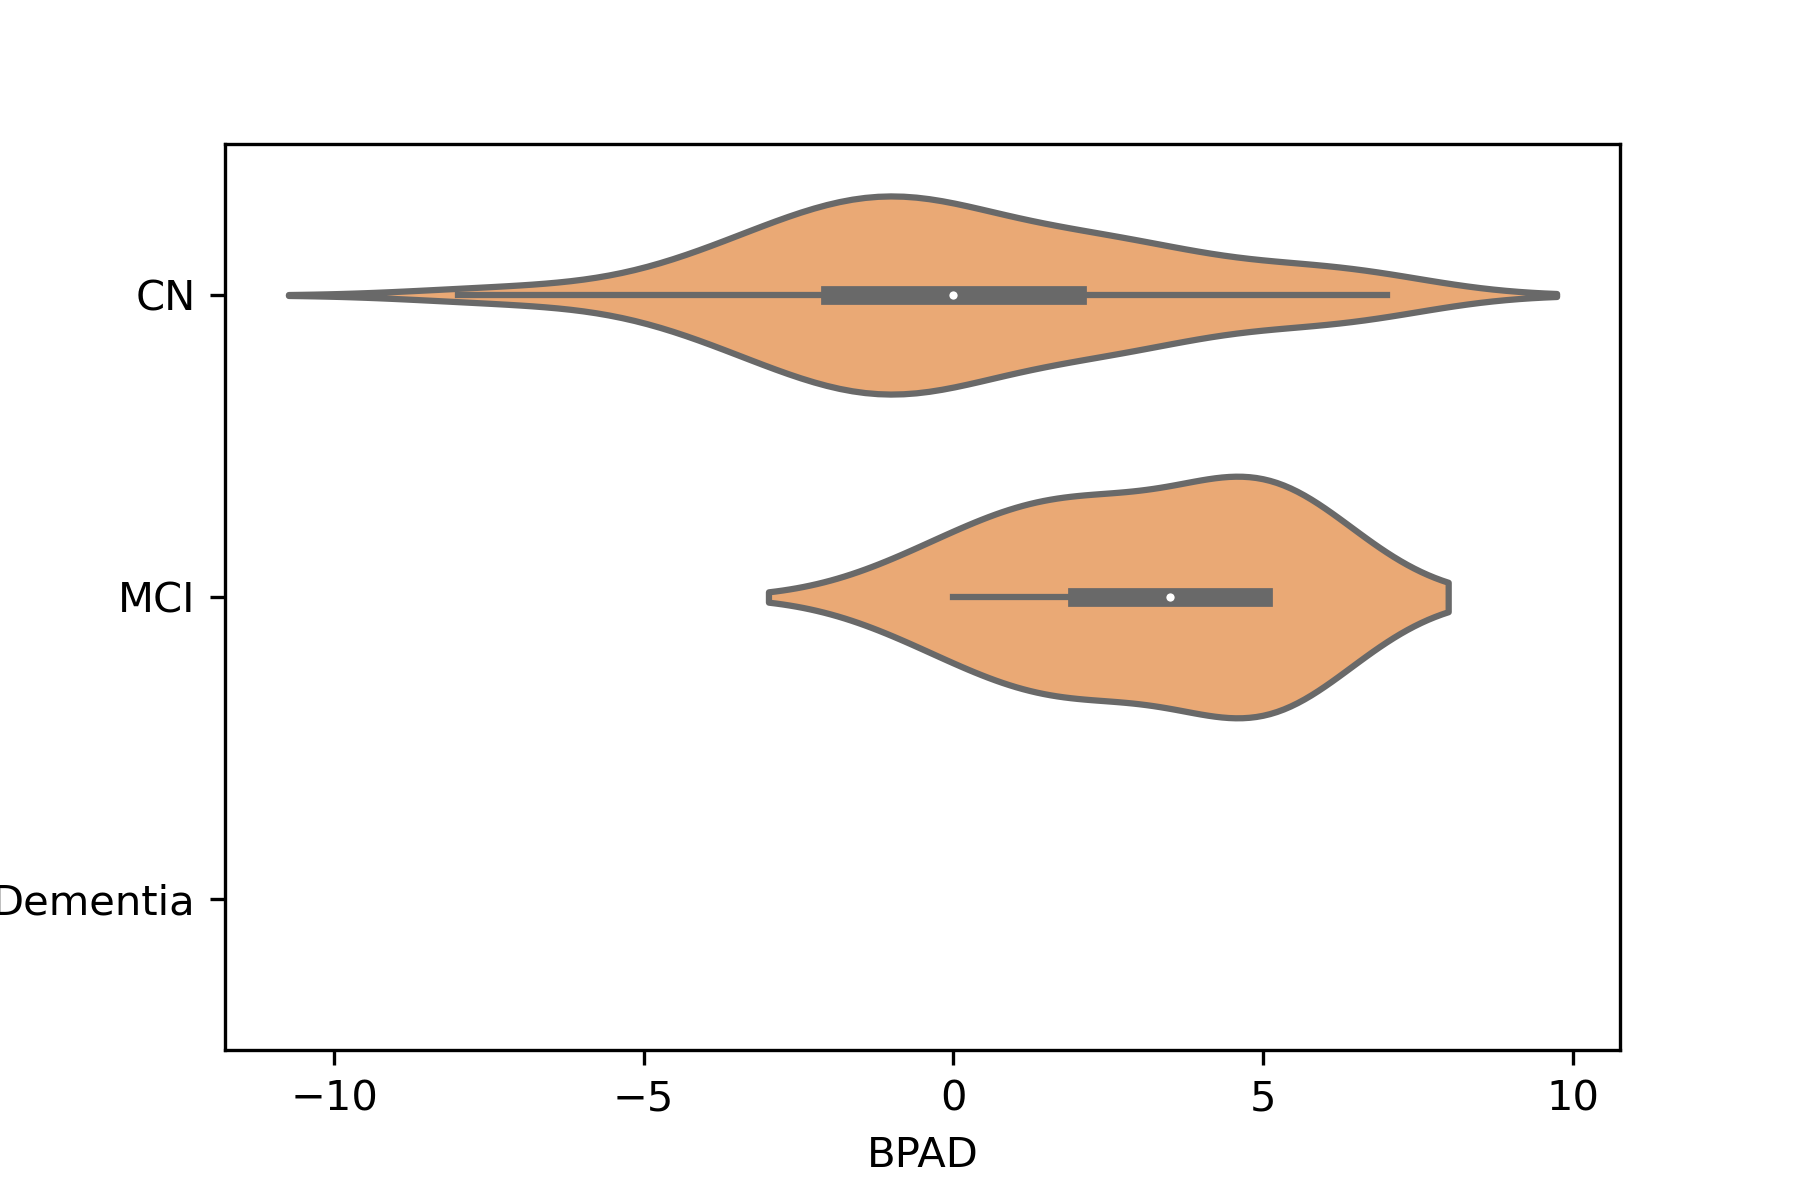
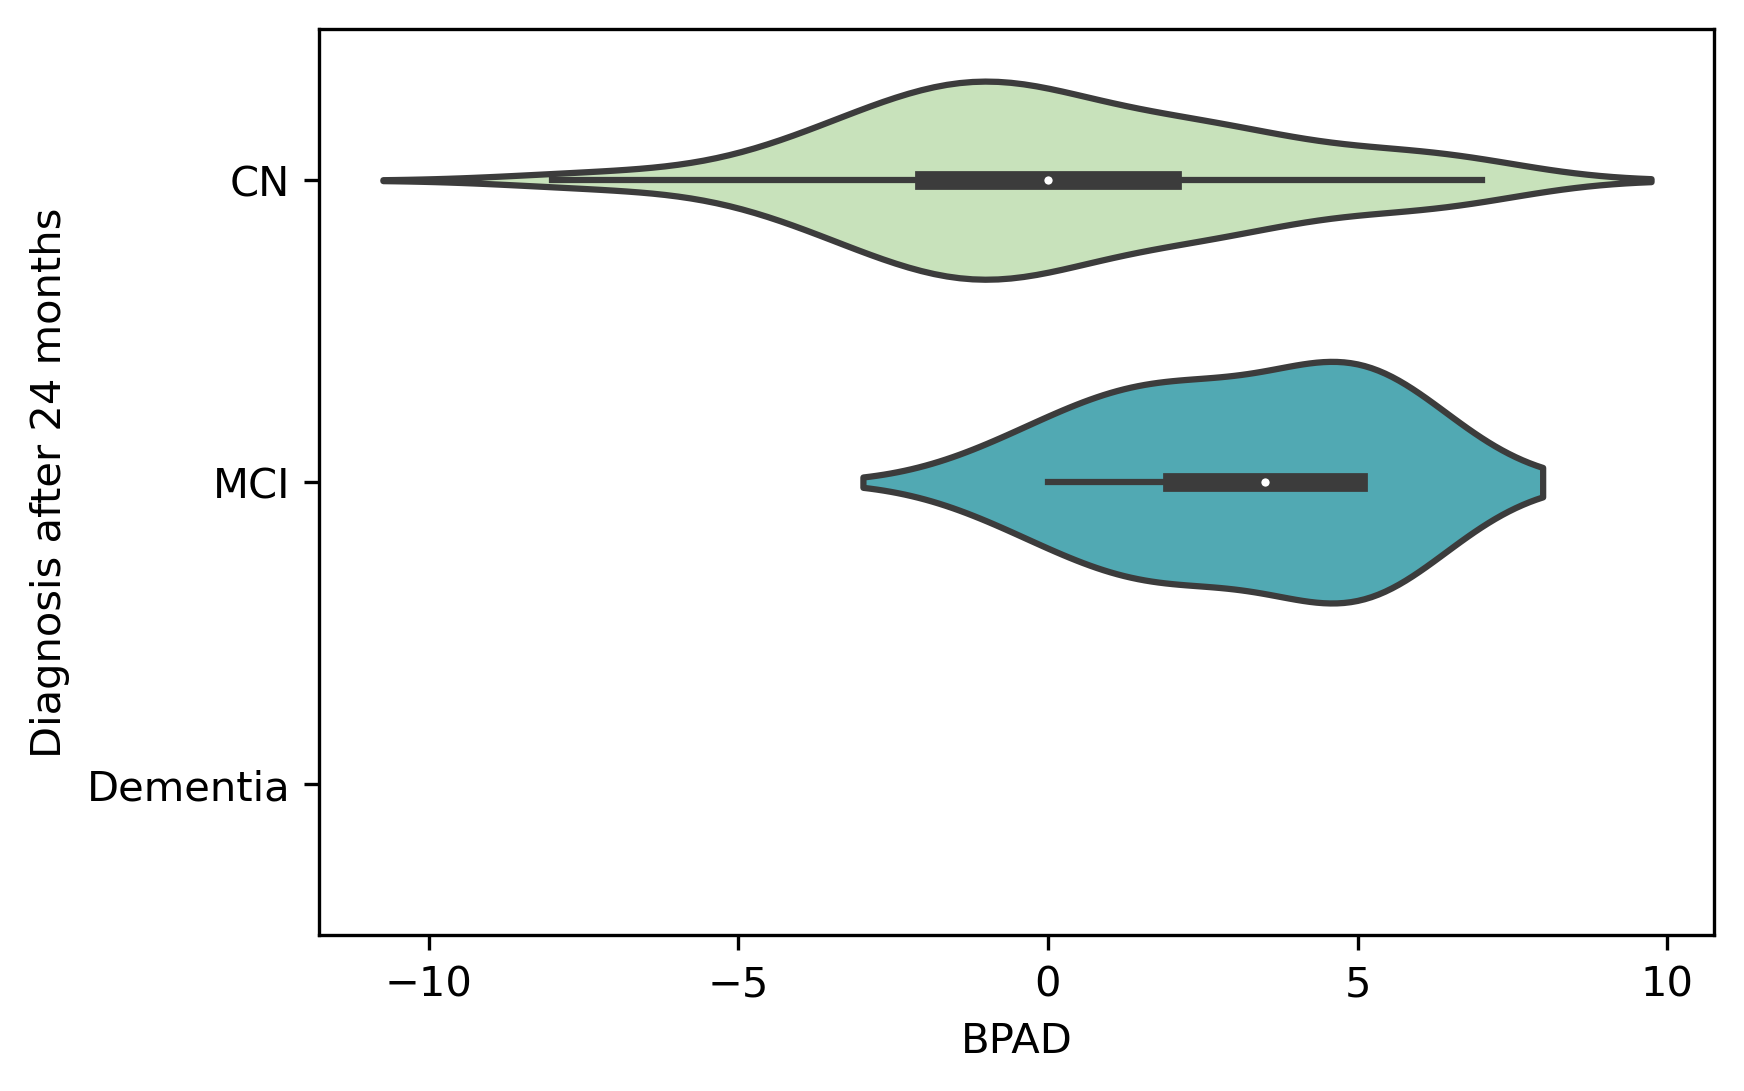
fix bbox

diff --git a/src/neuropsychology_correlations.py b/src/neuropsychology_correlations.py
@@ -181,9 +181,6 @@ def conversion_analysis(database, modality):
     None.
 
     """
-    cm_np = pickle.load(open(
-                        "../config/plotting_config_np_{}.p".format(
-                            modality), "rb"))
     df_dx = pd.read_csv(
         "../data/MCI/MCI_DX_after24months.csv", sep=";")
     df_pred = pd.read_csv(
@@ -191,12 +188,11 @@ def conversion_analysis(database, modality):
             database, modality, database))
     df_pred['BPAD'] = np.round(df_pred['Prediction'] - df_pred['Age'], 0)
     merge = dx_merge(df_pred, df_dx)
-    sns.violinplot(x='BPAD', y='DX', data=merge, color=cm_np[0],
-                        order=["CN", "MCI", "Dementia"],
-                        hue_order=["CN", "MCI", "Dementia"])
-    # plt.setp(ax.collections, alpha=0.8)
+    sns.violinplot(x='BPAD', y='DX', data=merge, palette='YlGnBu',
+                   order=["CN", "MCI", "Dementia"],
+                   hue_order=["CN", "MCI", "Dementia"])
     plt.ylabel("Diagnosis after 24 months")
     # plt.ylabel("Percent of whole group")
     plt.savefig(fname="../results/" + database + "/plots/Conversion_" +
-                modality + ".png", box_inches="tight", dpi=300)
+                modality + ".png", bbox_inches="tight", dpi=300)
     plt.show()
